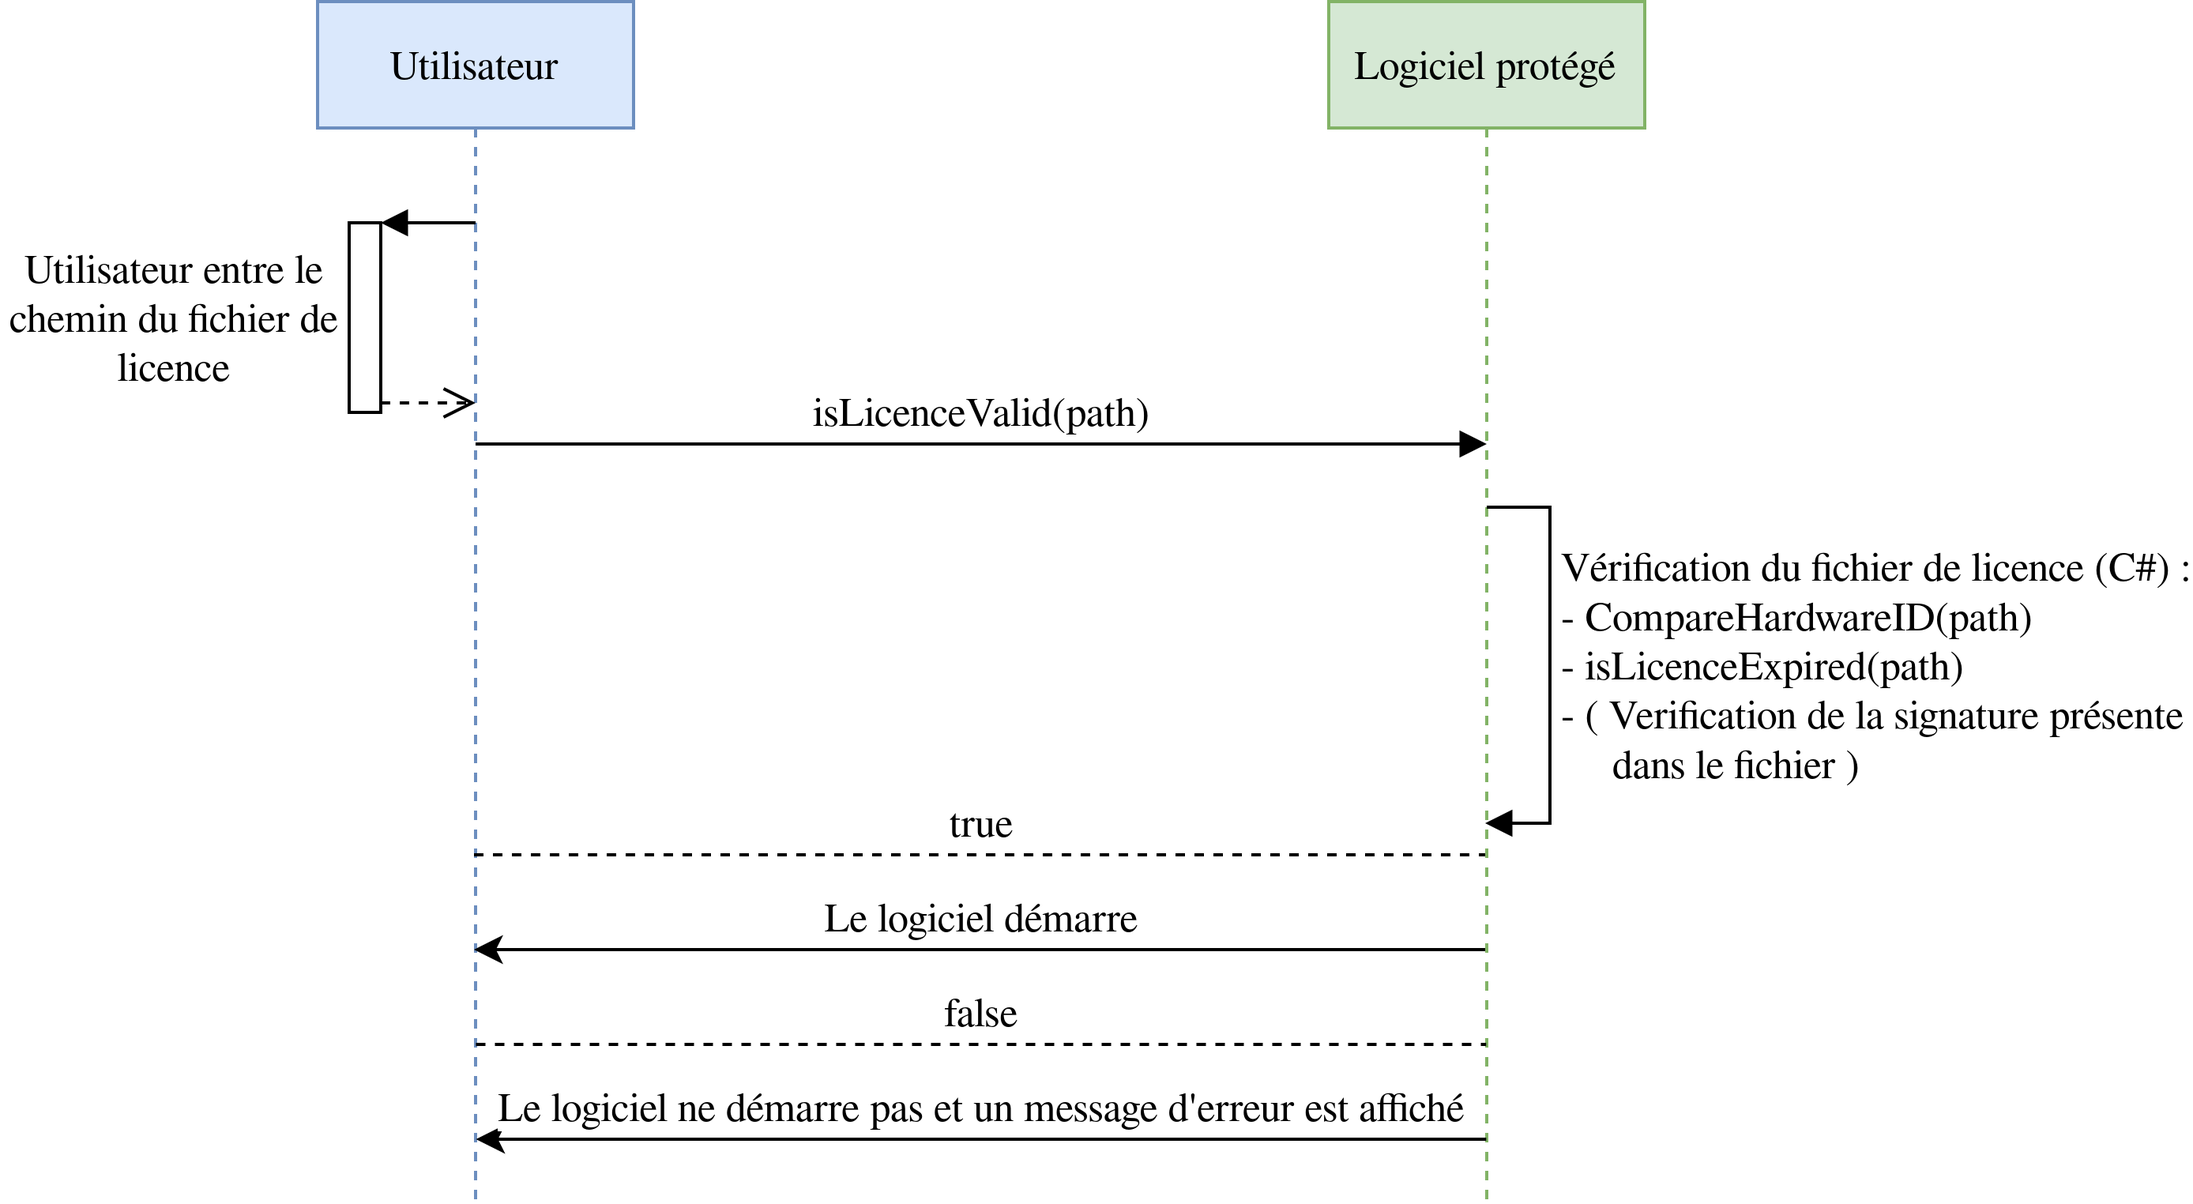
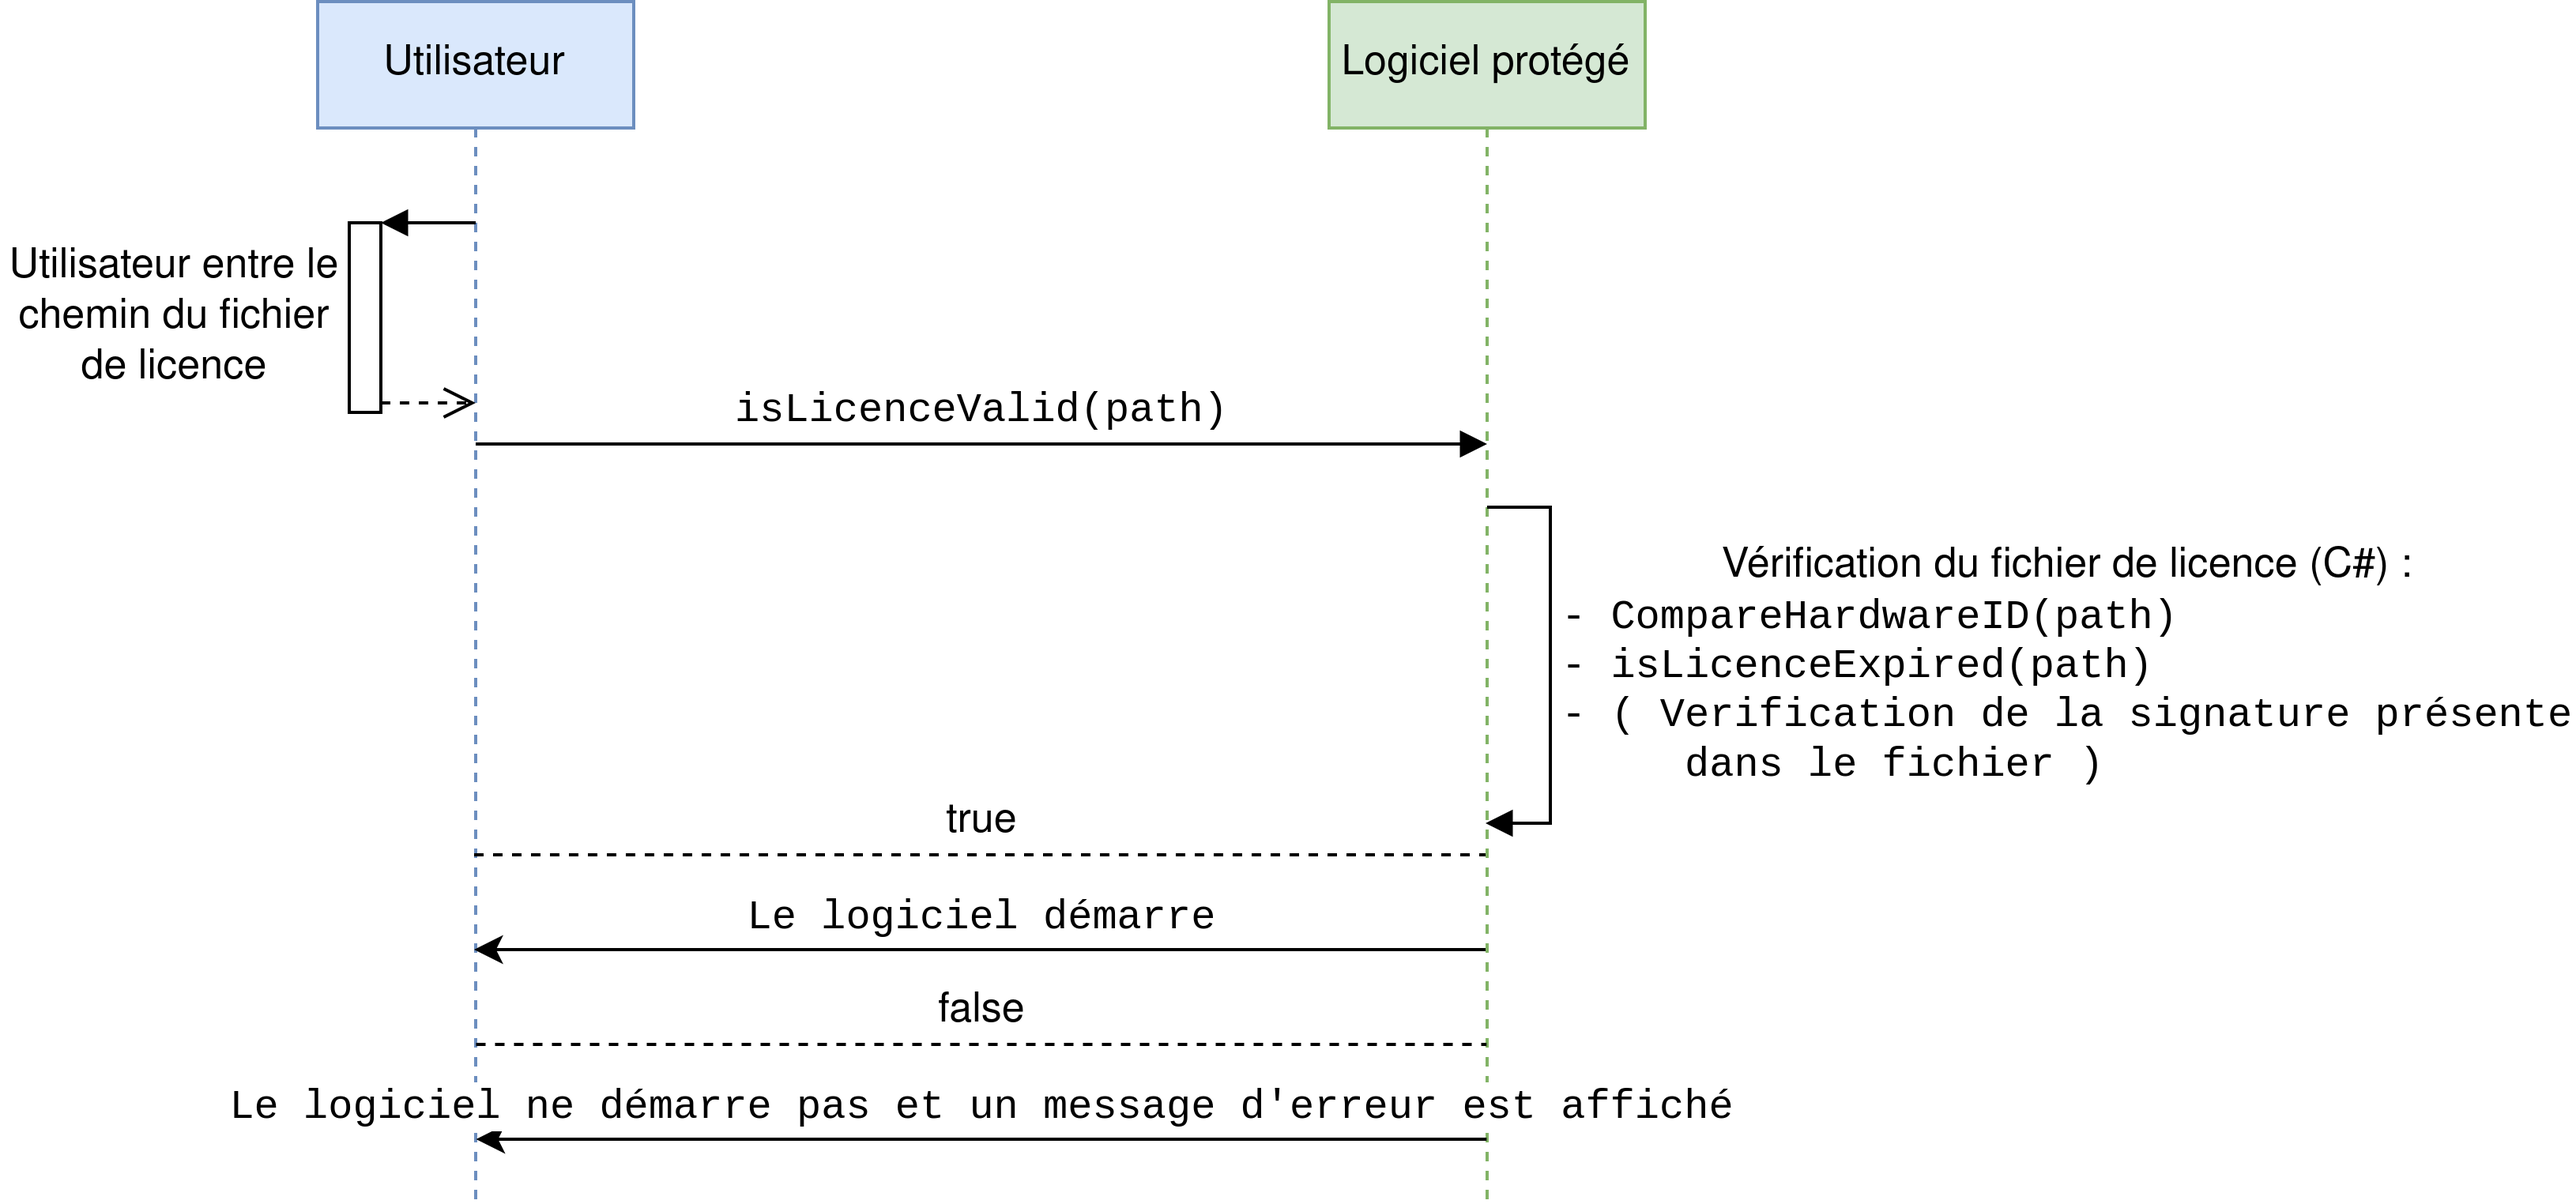
DAT - ajout des schémas de séquence techniques

diff --git a/DAT/main/main.tex b/DAT/main/main.tex
@@ -32,15 +32,17 @@ Documents de spécification :
 	\end{itemize}
 \end{itemize}
 
-\chapter{Terminologie}
+%\chapter{Terminologie}
 
 \chapter{Configuration requise}
 
 Les éléments matériels nécessaire au développement de cet outil sont :
-
 \begin{itemize}
-    \item Un serveur.
+    \item Un serveur sur lequel nous devrons installer tout le necéssaire à la mise en place d'un serveur Web (Apache, PHP, MySQL).
+    \item Un ordinateur sous Windows pour développer les interfaces et effectuer les tests.
 \end{itemize}
+
+De plus nous aurons besoin de différents logiciels pour effectuer des tests (protéger les logiciels) lorsque le dévellopement de l'outil sera suffisamment avancé.
 
 \chapter{Architecture statique}
 Afin de réaliser ce projet nous avons choisi de mettre en place l'infrastructure suivante:
@@ -101,7 +103,7 @@ le schéma n°\ref{fig:fig1}.\newline
 	\item[\textbf{Procédé de développement}:]
 				Utilisation du pattern design MVC (Modèle - Vue - Contrôleur) avec le framework
                 CodeIgniter \cite{igniter} et respect des conventions Material Design
-                \cite{Material}.
+                \cite{Material} (utilisation d'un framework CSS).
 	\item[\textbf{Taille et complexité}:]
 				Taille importante et complexité élévé.
 \end{description}
@@ -166,10 +168,10 @@ char *encodeBase64(const char *string);
 		Taille faible et complexité faible. 
 \end{description}
 
-\subsection{API PHP/SQL}
+\subsubsection{Modèle PHP}
 Nous utiliserons MySQL avec PHP 8 pour interagir avec notre base de données (partie modèle) depuis la plateforme Web.
 
-Une API des fonctions PHP à implémenter est disponible en annexe (voir section \ref{section:php}).
+Le modèle PHP à implémenter est disponible en annexe (voir section \ref{section:php}).
 
 \subsection{Justifications techniques.}
 PHP est le langage de script le plus utilisé pour la programmation coté serveur et également le plus simple.
@@ -184,7 +186,7 @@ compréhension, l'utilisation et la maintenabilité du code.
 		se connecter au serveur afin de générer le fichier de licence.
 %	\item[\textbf{Propriétés et attributs de caractérisation}:]
 	\item[\textbf{Services offerts}:] 
-		n'offre aucun service.
+		N'offre aucun service.
 	\item[\textbf{Dépendances}:]
 		Dépend du Module Serveur.
 	\item[\textbf{Languages}:]
@@ -257,11 +259,55 @@ C'est aussi dans un but pédagogique nous avons choisi d'implémenter nous même
 
 % \subsection{Justifications techniques.}
 
+\chapter{Fonctionnement dynamique}
+Cette section décrit le fonctionnement dynamique des composants selon les cas d'utilisations vu
+dans la spécification technique des besoins.
+
+\section{Schémas de séquences techniques}
+
+\subsection{CA1 et CA2 : Demande et accord d'une licence}
+\begin{figure}[!h]
+    \centering
+    \includegraphics[width=\textwidth]{../png/SSD-demande-licence.png}
+    \caption{Schéma de séquence technique - Demande et accord d'une licence}
+\end{figure}
+\newpage
+
+\subsection{CA3 : Activation d'une licence}
+\begin{figure}[!h]
+    \centering
+    \includegraphics[width=15cm]{../png/SSD-logiciel-activation.png}
+    \caption{Schéma de séquence technique - Activation d'une licence}
+\end{figure}
+
+\subsection{CA4 : Démarrage d'un logiciel protégé}
+\begin{figure}[!h]
+    \centering
+    \includegraphics[width=15cm]{../png/SSD-demarrage-logiciel.png}
+    \caption{Schéma de séquence technique - Démarrage d'un logiciel protégé}
+\end{figure}
+\newpage
+
+\subsection{CA5 : Création d'un compte}
+\begin{figure}[!h]
+    \centering
+    \includegraphics[width=15cm]{../png/SSD-creation-compte.png}
+    \caption{Schéma de séquence technique - Création d'un compte}
+\end{figure}
+
+\subsection{CA6 : Paramétrage d'une licence}
+\begin{figure}[!h]
+    \centering
+    \includegraphics[width=15cm]{../png/SSD-param-licence.png}
+    \caption{Schéma de séquence technique - Paramétrage d'une licence}
+\end{figure}
+\newpage
+
 \chapter{Annexe}
 \label{chap:Annexe}
 
 \input{coding-convention.tex}
 
-\section{API PHP}
+\section{Modèle PHP}
 \label{section:php}
 \inputminted{php}{api.php}

diff --git a/DAT/main/coding-convention.tex b/DAT/main/coding-convention.tex
@@ -1,4 +1,6 @@
-\section{Formatage du code}
+\section{Charte de code}
+
+\subsection{Formatage du code}
 Les accolades sont positionnées en fin et début de fonction ou de bloc en 
 respectant les conventions adoptées dans les environnements Visual Studio 
 mais aussi www.gnu.org. Ce formatage permet de rendre le code plus aéré, 
@@ -43,7 +45,7 @@ if ((x != 0) && (isValid(y) || y == 5))
 }
 \end{minted}
 
-\section{Sortie de fonctions}
+\subsection{Sortie de fonctions}
 
 Un seul \mintinline{c}{return} par fonction afin de
 \begin{itemize}
@@ -54,7 +56,7 @@ Un seul \mintinline{c}{return} par fonction afin de
 
 Les \mintinline{c}{goto} sont interdits.
 
-\section{Commentaires}
+\subsection{Commentaires}
 Les commentaires ne doivent pas qu’uniquement formuler en texte ce qui est traduit
 dans le langage de programmation (qui se doit d'être lisible) : \newline
 Ils apportent une réelle plus-value dans la compréhension du programme ou doivent
@@ -63,7 +65,7 @@ rédigés en anglais. \newline
 Un commentaire doit être sur une seule ligne (ne peut pas être sur la même ligne 
 que du code).
  
-\section{Nommages}
+\subsection{Nommages}
 La définition des constantes seront en majuscules séparé par des underscores.\newline
 Pour la définition d'un type, d'une structure ou d'une classe la notation 'PascalCase'
 sera utilisé: 

diff --git a/DAT/main/DAT.tex b/DAT/main/DAT.tex
@@ -170,14 +170,18 @@
 		\hline
 			0.2 & 26/11/2021 & Mise à jour\\
 		\hline
-			1.0 & 01/12/2021  & Première version final\\
+			1.0 & 01/12/2021  & Première version finale \\
 		\hline
-            1.1 & 06/12/2021 & Révision après cours gestion projets, relecture et correction.\\
+            1.1 & 06/12/2021 & Révision après cours gestion projets, relecture et correction \\
+        \hline
+            1.2 & 12/12/2021 & Version finale - ajout des schémas de séquence techniques \\
         \hline
 	\end{tabular}
 \end{table}
 
+\renewcommand{\baselinestretch}{0.95}\normalsize
 \tableofcontents
+\renewcommand{\baselinestretch}{1.0}\normalsize
 \newpage
 
 \input{main.tex}
